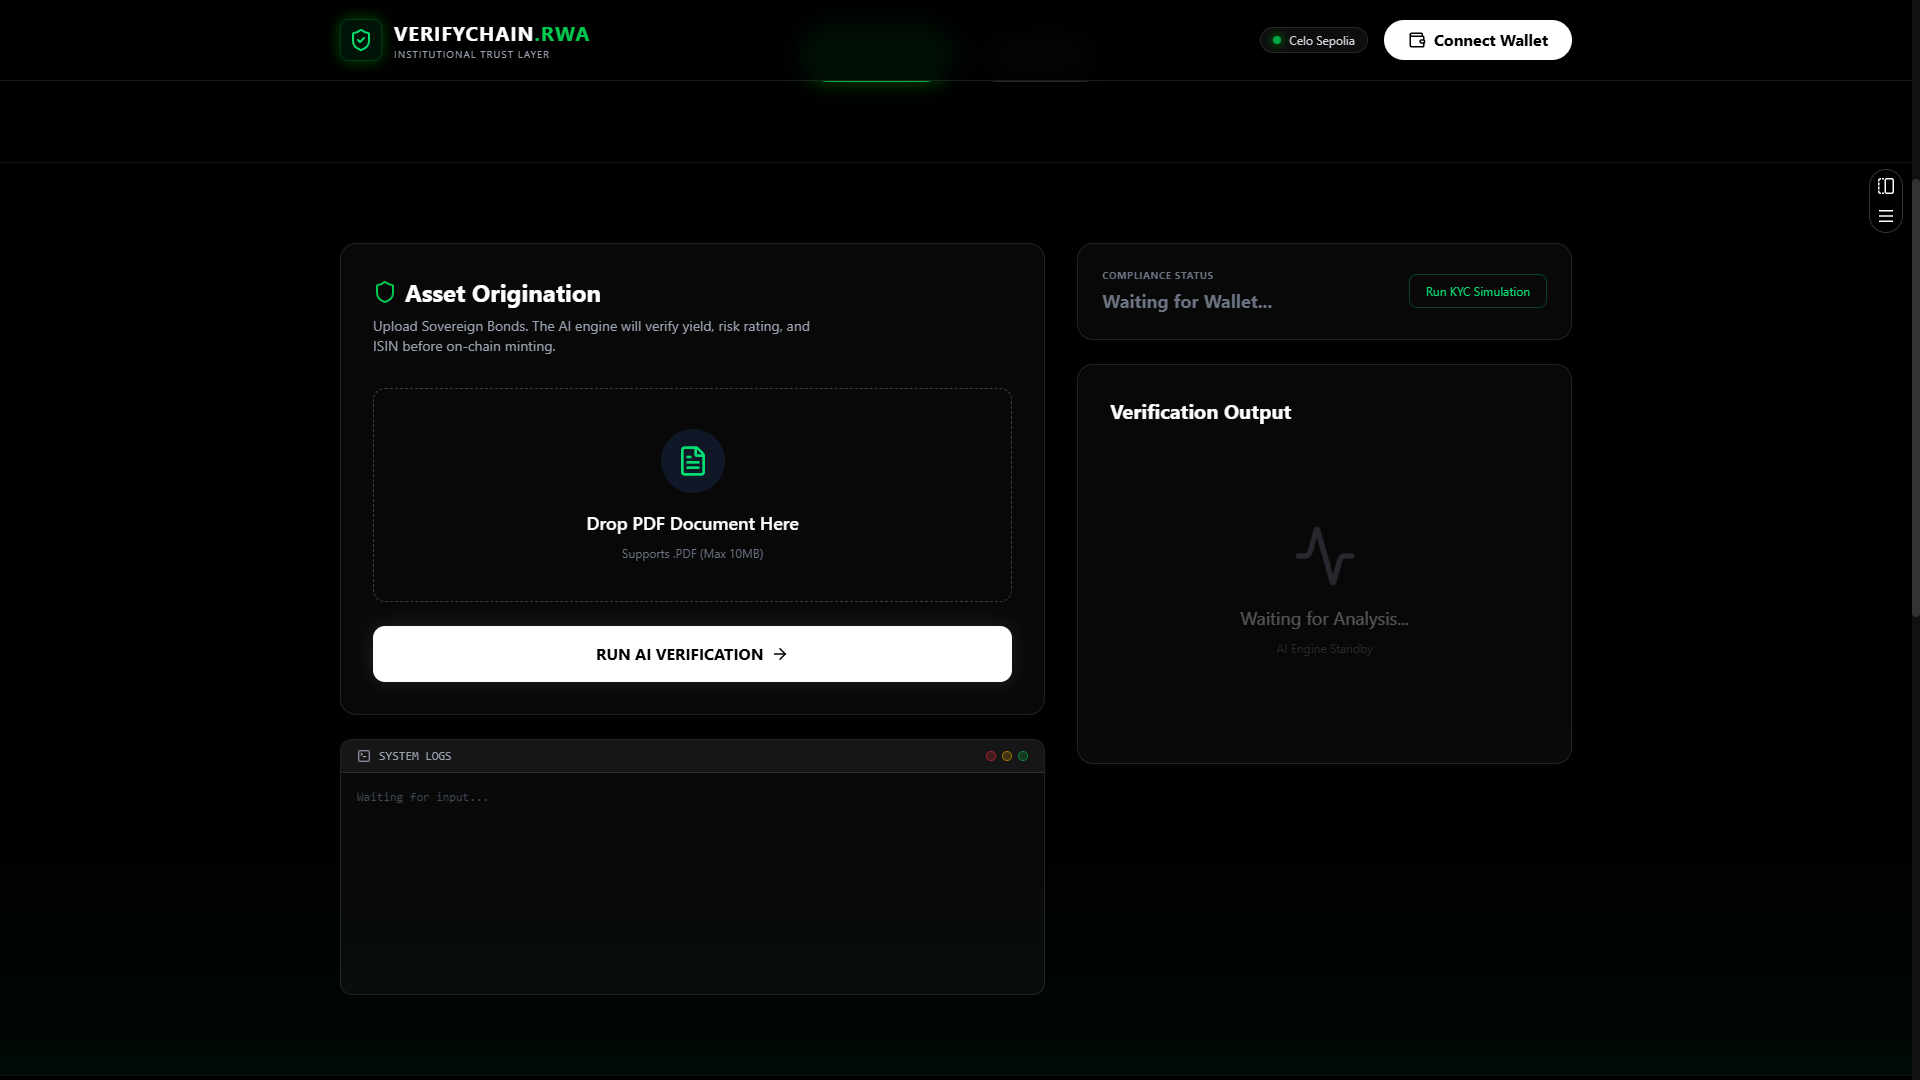
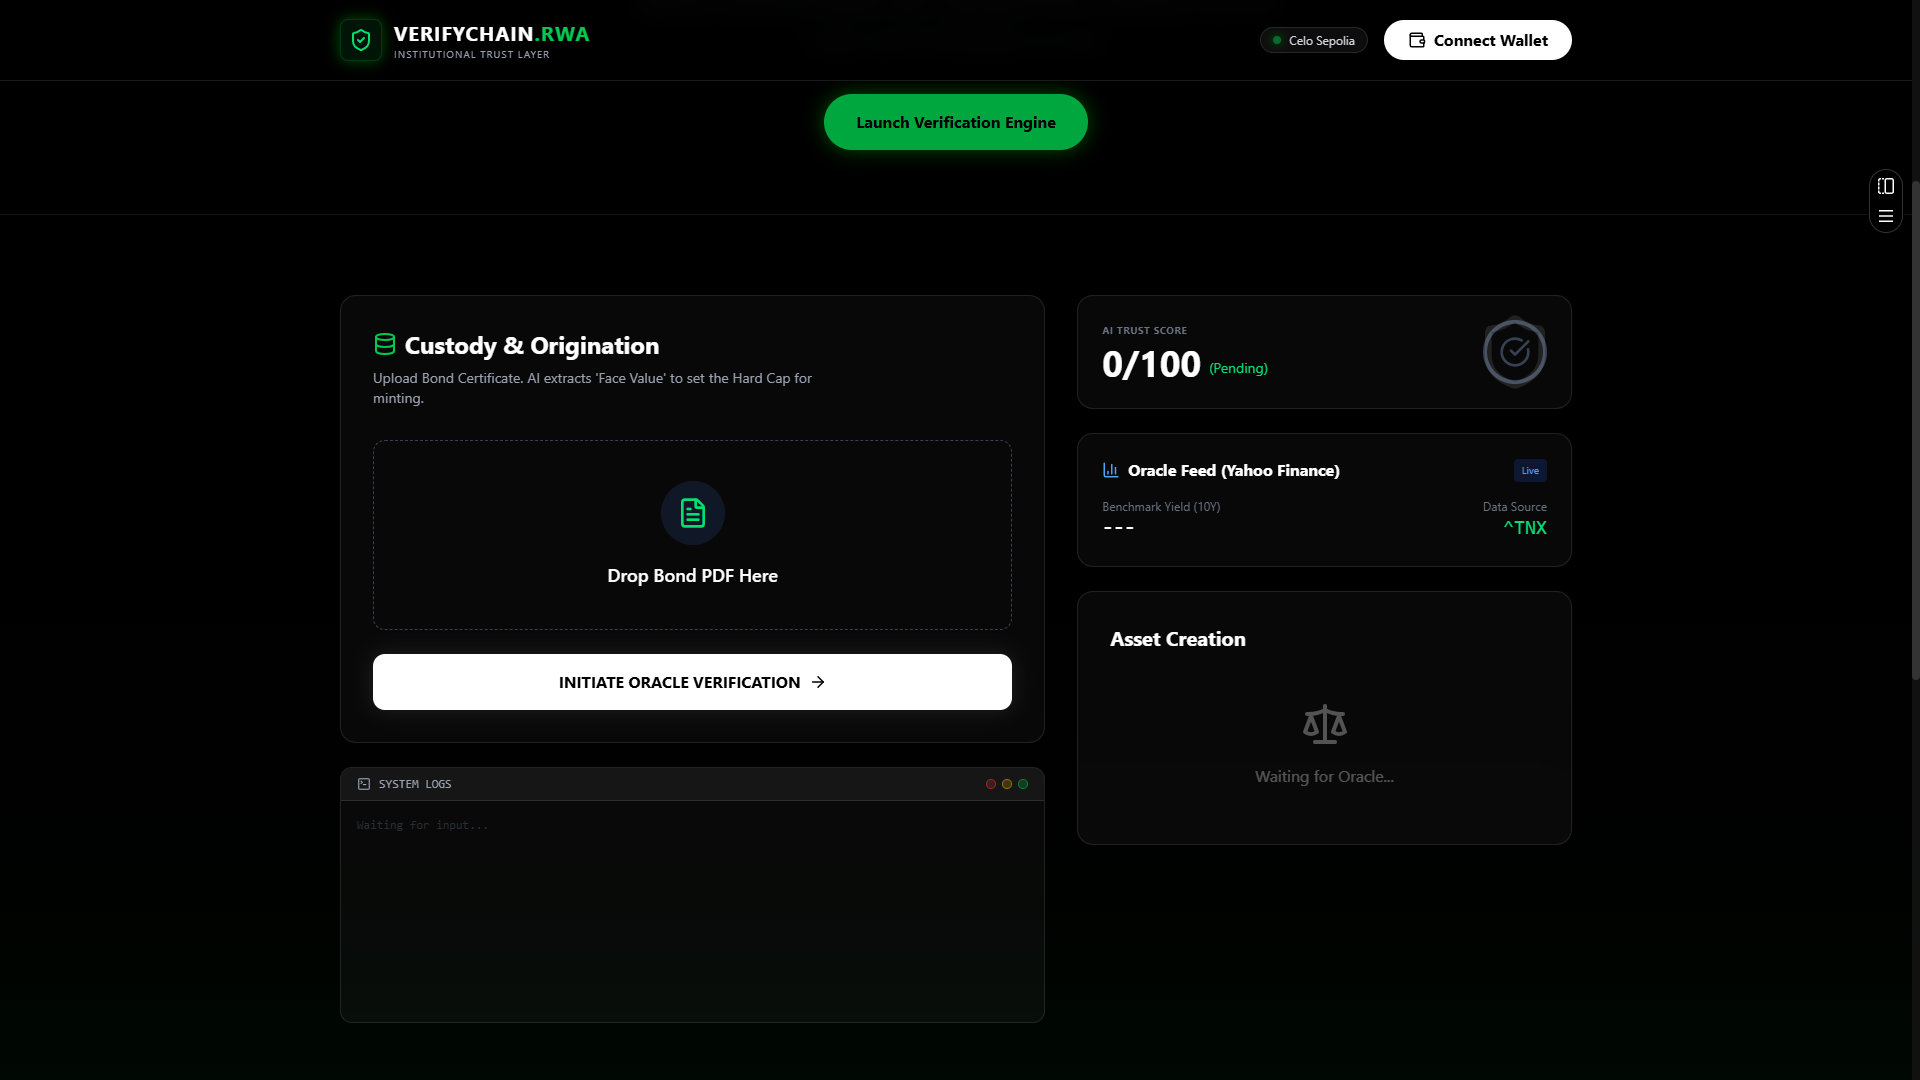
Point to Prod API

diff --git a/frontend/src/app/page.tsx b/frontend/src/app/page.tsx
@@ -71,30 +71,44 @@ export default function Home() {
     if (!file) return toast.error("Select a file first");
     setLoading(true);
     setTrustScore(0);
-    setLogs([]);
-
+    setLogs([]); 
+    setAiData(null); 
+    
     addLog(`[1/5] Uploading Document: ${file.name}...`);
-
+    
     const formData = new FormData();
     formData.append("file", file);
 
     try {
      
       const res = await axios.post("https://verifychain-rwa.onrender.com/analyze_and_oracle", formData);
-
+      
       const analysis = res.data.ai_analysis;
       const oracle = res.data.oracle_data;
+      const faceValue = parseInt(analysis.face_value_amount || 0);
 
-      addLog(`[AI] Extracted Metadata: ${analysis.bond_name}`);
-      setTrustScore(20);
-      await new Promise(r => setTimeout(r, 500));
-      addLog(`[PoR] Document Face Value: $${parseInt(analysis.face_value_amount || 0).toLocaleString()}`);
-      if (analysis.face_value_amount > 0) {
-        addLog(`[PoR] Reserve Limit Established.`);
-        setTrustScore(50);
+      if (analysis.bond_name === "Unknown" || !analysis.bond_name) {
+          addLog(`[AI] ⚠ Could not identify Bond Name.`);
       } else {
-        addLog(`[PoR] WARNING: No Face Value detected in PDF.`);
+          addLog(`[AI] Extracted Metadata: ${analysis.bond_name}`);
       }
+      setTrustScore(20);
+      await new Promise(r => setTimeout(r, 500)); 
+
+      addLog(`[PoR] Document Face Value: ${faceValue > 0 ? "₹" + faceValue.toLocaleString() : "Unknown"}`);
+      
+      if (faceValue <= 0) {
+          
+          addLog(`[PoR] ❌ CRITICAL FAILURE: No Reserve Value found.`);
+          addLog(`[System] Verification Terminated.`);
+          setTrustScore(10); 
+          toast.error("Verification Failed: Invalid Bond Document");
+          setLoading(false);
+          return; 
+      }
+
+      addLog(`[PoR] ✅ Reserve Limit Established.`);
+      setTrustScore(50);
       await new Promise(r => setTimeout(r, 500));
 
       
@@ -103,15 +117,16 @@ export default function Home() {
       setTrustScore(80);
       await new Promise(r => setTimeout(r, 500));
 
-      
-      addLog(`[Audit] Contract: ${CONTRACT_ADDRESS.slice(0, 6)}... verified.`);
+     
+      addLog(`[Audit] Contract: ${CONTRACT_ADDRESS.slice(0,6)}... verified.`);
       setTrustScore(100);
 
       setAiData(res.data);
-      toast.success("Verification Complete");
+      toast.success("Verification Complete. Asset Valid.");
+      
     } catch (err) {
       addLog("CRITICAL ERROR: Backend Connection Failed");
-      toast.error("Ensure app.py is running on port 5000");
+      toast.error("Analysis Error");
     }
     setLoading(false);
   };

diff --git a/README.md b/README.md
@@ -1,14 +1,12 @@
 # 🏦 VerifyChain RWA
 ### East India Blockchain Summit 2.0
 
-**VerifyChain RWA** is a decentralized Real World Asset (RWA) tokenization platform that brings transparency, security, and automation to bond trading. It leverages **AI Agents** to verify legal documents, **IPFS** for immutable storage, and **Smart Contracts** for compliance-enforced tokenization.
+**VerifyChain RWA** is a decentralized Real World Asset (RWA) tokenization platform that brings transparency, security, and automation to bond trading. It leverages **AI Agents** to verify legal documents, **Oracles** for real-time market data, and **Smart Contracts** for compliance-enforced tokenization.
 
 ---
 
 ## 🚩 Problem Statement
 Government bonds are widely regarded as safe, sovereign-backed investment instruments, yet meaningful retail participation remains limited. Structural inefficiencies and missing trust infrastructure prevent broader adoption, especially as tokenized government bonds emerge within the RWA ecosystem.
-
-
 
 ### Key Challenges:
 - **High minimum investment thresholds**: Institutional barriers keep retail investors out.
@@ -22,19 +20,11 @@ Government bonds are widely regarded as safe, sovereign-backed investment instru
 ## 💡 Proposed Solution: VerifyChain RWA
 **Issuance already exists.** The missing piece is trust, verification, and compliance — that’s where **VerifyChain RWA** creates maximum value.
 
-
-
 ### What We Do:
-- **Cryptographic Verification**: Generate hashes of government bond metadata using AI.
-- **On-Chain Proof**: Verify fractional ownership and issuance on the Celo blockchain.
-- **Lifecycle Tracking**: Record yield distribution and redemption events immutably.
-- **Privacy-Preserving**: Enable trustless verification without exposing sensitive investor data.
-
-### What This Solves:
-- **Prevents Fraud**: Eliminates fake or duplicated bond tokens.
-- **Transparent Yields**: Ensures 100% visibility into payout history.
-- **Audit Trails**: Creates regulator-ready, on-chain records.
-- **Trust**: Builds investor confidence in RWA platforms.
+- **AI-Powered Verification**: We use Llama 3 to analyze PDF bond certificates and extract critical financial data (ISIN, Face Value).
+- **Real-Time Oracle**: We fetch live 10-year Treasury yields via Yahoo Finance API to ensure the bond's on-chain data reflects real-market conditions.
+- **Proof of Reserve (PoR)**: We ensure that the amount of tokens minted cannot exceed the "Face Value" extracted from the legal document.
+- **On-Chain Compliance**: Our smart contract enforces limits and tracks the asset lifecycle on the Celo blockchain.
 
 ---
 
@@ -48,49 +38,45 @@ We chose **Celo** as our infrastructure layer for its unique "Mobile-First, Carb
 
 ---
 
-## 🤖 Why AI & How We Use It?
-Artificial Intelligence is the "Verifier" in our architecture, bridging the gap between off-chain documents and on-chain truth.
+## 🛠 Detailed Codebase Breakdown
 
-### The Problem with RWAs
-Real World Assets start as **paper/PDF legal documents**. Bridging them on-chain manually is slow, error-prone, and hard to audit.
+### 1. Backend (`backend/app.py`)
+The backend is a Flask server acting as the **Verification Oracle**. It bridges the off-chain world (documents, web data) with the on-chain world.
 
-### Our AI Approach
-We leverage **Llama 3 (70B via Groq)** as a specialized document analysis engine:
-1.  **Extraction**: The AI parses complex PDF data (ISIN, Interest Rate, Maturity Date) with human-like understanding but machine speed.
-2.  **Validation**: It cross-references extracted data against defined schema rules.
-3.  **Hashing**: The verified data is hashed to create a digital fingerprint. This fingerprint is what goes on-chain, ensuring that **if the document changes, the hash changes**, alerting the smart contract.
+*   **`POST /analyze_and_oracle`**: This is the core endpoint.
+    *   **Input**: Receives a PDF file (Bond Certificate).
+    *   **Process - Step 1 (AI Analysis)**: Uses `PyPDF2` to read text. Sends the text to **Groq (Llama 3.3-70b-versatile)** with a prompt to extract JSON data: `bond_name`, `isin`, and `face_value_amount`.
+    *   **Process - Step 2 (Market Oracle)**: Uses `yfinance` to fetch the ticker `^TNX` (CBOE 10-Year Treasury Note Yield) to get the real-time risk-free rate.
+    *   **Output**: Returns a JSON object combining the AI-extracted metadata and the live market yield.
+
+### 2. Smart Contract (`contracts/RealRWA.sol`)
+The Solidity contract manages the asset lifecycle and enforces rules on the Celo blockchain.
+
+*   **`createAsset(...)`**: Called by the owner to register a new bond. It records the Name, ISIN, Face Value (Hard Cap), Initial Yield, and IPFS Hash.
+*   **`mintFractionalShares(...)`**: Allows minting tokens for a specific bond. **Critical Feature**: It checks `mintedAmount + amount <= faceValue`. This enforces **Proof of Reserve**—you cannot mint more tokens than the physical document allows.
+*   **`updateMarketData(...)`**: Allows the oracle to update the yield of a bond, keeping it in sync with the real market.
+*   **`BondMetadata` Struct**: Stores the truth of the asset: `name`, `isin`, `faceValue`, `currentYield`, `lastUpdate`, `ipfsHash`.
+
+### 3. Frontend (`frontend/src/app/page.tsx`)
+The user interface is a Modern Next.js application that orchestrates the flow.
+
+*   **Document Upload**: Users upload a PDF.
+*   **AI & Oracle Interaction**: Calls the backend `analyze_and_oracle` endpoint and displays the extracted "Confidence Score", Face Value, and Live Yield.
+*   **Minting**: If the user approves the analysis, they sign a transaction using `ethers.js`. This calls `createAsset` on the smart contract, passing the AI-verified data directly to the blockchain.
+*   **Dashboard**: Displays the "Public Transparency Ledger" by fetching all created bonds from the smart contract using `fetchRegistry`.
 
 ---
 
 ## 🚀 Live Demo & Links
 - **Frontend Deployed URL**: [Click Here](https://verifychain-kappa.vercel.app/)
 - **Backend API URL**: [Click Here](https://verifychain-rwa.onrender.com)
-- **Smart Contract Address**: `0x919F737bb0C39c05c459a20A2FaB26035E9734f3` (Celo Sepolia Testnet)
+- **Smart Contract Address**: `0xE715acd4c54F030d021b7147c20786623fFf482a` (Celo Sepolia Testnet)
 
 ![Demo](assets/demo.png)
 
-
 ---
 
-## 🛠 Project Architecture
-
-The system consists of three main pillars:
-
-1.  **AI Verification Engine (Backend)**: 
-    -   Extracts data from Bond PDFs using **Llama 3 (via Groq)**.
-    -   Generates SHA256 hashes for document integrity.
-    -   Uploads original documents to **IPFS/Pinata**.
-2.  **Compliance Layer (Smart Contract)**:
-    -   Enforces KYC whitelisting for all participants.
-    -   Mints ERC-20 tokens linked to real-world bond data.
-    -   Restricts transfers to verified users only.
-3.  **User Dashboard (Frontend)**:
-    -   Allows Issuers to upload PDFs and mint tokens.
-    -   Allows Investors to view and trade verified bonds.
-
----
-
-## 📂 Tech Stack
+##  Tech Stack
 
 ### **Frontend**
 -   **Framework**: Next.js 16 (React 19)
@@ -101,9 +87,9 @@ The system consists of three main pillars:
 ### **Backend**
 -   **Framework**: Flask (Python)
 -   **AI Model**: Llama 3.3 70B (via Groq API)
--   **Storage**: IPFS (Pinata SDK)
+-   **Market Data**: Yahoo Finance (`yfinance`)
 -   **PDF Processing**: PyPDF2
--   **Security**: SHA256 Hashing
+-   **web3.py**: Included for future server-side signing capabilities.
 
 ### **Smart Contracts**
 -   **Language**: Solidity ^0.8.20
@@ -120,8 +106,8 @@ git clone https://github.com/Srizdebnath/verifychain-rwa
 cd VerifyChain_RWA
 ```
 
-### 2⃣ Backend Setup (AI & IPFS Engine)
-The backend handles document parsing, AI analysis, and IPFS uploads.
+### 2⃣ Backend Setup (AI & Oracle Engine)
+The backend handles document parsing, AI analysis, and market data fetching.
 
 ```bash
 cd backend
@@ -133,8 +119,7 @@ pip install -r requirements.txt
 **Configure Environment Variables (`backend/.env`):**
 ```env
 GROQ_API_KEY=your_groq_api_key
-PINATA_API_KEY=your_pinata_key
-PINATA_SECRET_API_KEY=your_pinata_secret
+PRIVATE_KEY=your_wallet_private_key
 ```
 
 **Run Server:**
@@ -166,43 +151,26 @@ npm run dev
 
 ## 🔌 API Endpoints
 
-### `POST /analyze_bond`
-Uploads a Bond PDF, extracts data using AI, and pins to IPFS.
+### `POST /analyze_and_oracle`
+Uploads a Bond PDF, extracts data using AI, and fetches live yields.
 
 -   **Body**: `form-data` with `file` (PDF)
 -   **Response**:
     ```json
     {
-      "success": true,
[1 lines of base64/hex data omitted]
-      "ipfs_cid": "QmHash...",
-      "ai_data": {
+      "ai_analysis": {
         "bond_name": "Government of India 7.26% 2033",
         "isin": "IN0020230018",
-        "risk_rating": "AAA",
-        "detected_yield": 726,
-        "raw_yield": 7.26
+        "face_value_amount": 10000000
+      },
+      "oracle_data": {
+        "source": "Yahoo Finance API",
+        "ticker": "^TNX (10Y Yield)",
+        "live_yield": 4.15,
+        "timestamp": 171569234
       }
     }
     ```
-
----
-
-## 📜 Smart Contracts
-
-Located in `contracts/VerifyChainRWA.sol`.
-
-### Key Features
--   **`whitelistUser(address)`**: Only the owner can whitelist investors (KYC).
--   **`mintBond(...)`**: Mints tokens representing the bond with on-chain metadata (IPFS Hash, Doc Hash, Yield).
--   **`transfer(...)`**: Overridden to block transfers if sender or recipient is not KYC verified.
--   **`verifyIntegrity(...)`**: Checks if a provided document hash matches the on-chain stored hash.
-
-### Deploy (Remix / Hardhat)
-1.  Open Remix IDE.
-2.  Compile `VerifyChainRWA.sol`.
-3.  Deploy using Injected Provider (Metamask) connected to Celo Alfajores.
-4.  Copy the contract address and update it in your frontend config.
 
 ---
 
